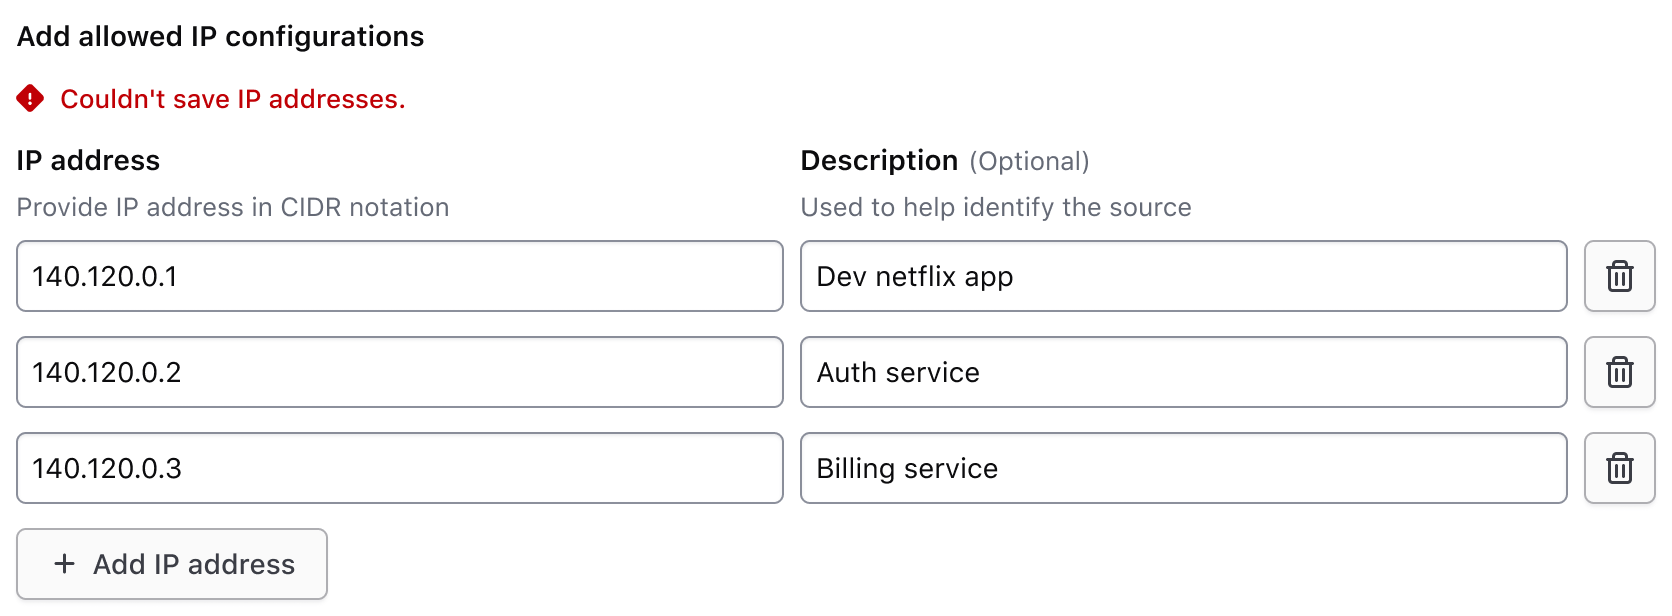
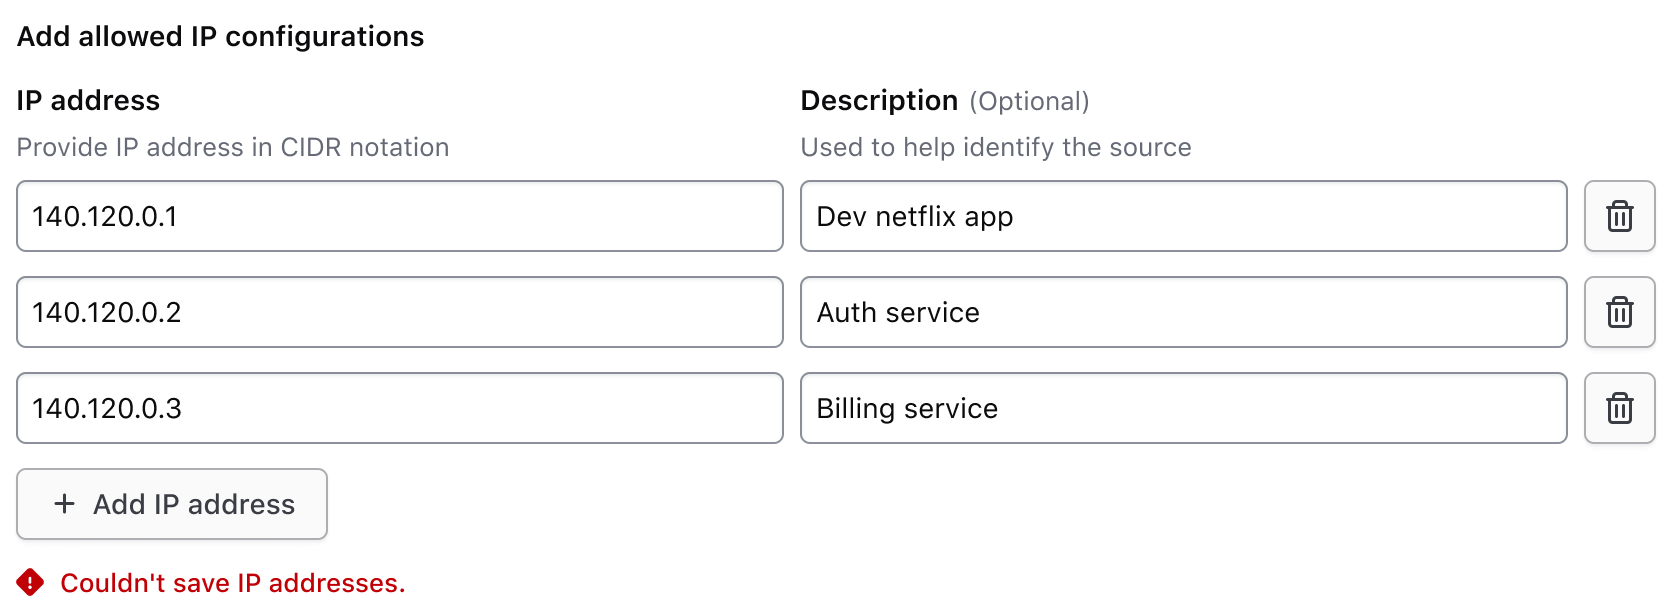
updated validation section

Changed region(s): [[0.0, 0.2159, 0.9952, 0.987], [0.0, 0.1234, 0.2488, 0.1851], [0.4665, 0.1542, 0.6531, 0.1851]]

diff --git a/website/docs/components/form/key-value-inputs/partials/guidelines/guidelines.md b/website/docs/components/form/key-value-inputs/partials/guidelines/guidelines.md
@@ -9,7 +9,6 @@
 
 - When inputs in each row are not closely related, use the form layout helpers instead.
 
-
 ## Header
 
 Key value inputs use a header that includes a legend, helper text and generic content slot.
@@ -50,7 +49,7 @@ Don’t repeat information in each row if it can be explained once at the top of
 
 ### Validation
 
-In addition to form-level validation, if a specific error is associated with the fieldset, it will be displayed above the rows.
+In addition to form-level validation, if a specific error is associated with the fieldset, it will be displayed below the add new row button.
 
 ![Below the legend and helper text is a compact critical alert showing a fieldset error.](/assets/components/form/key-value-inputs/key-value-inputs-fieldset-error.png)
 
